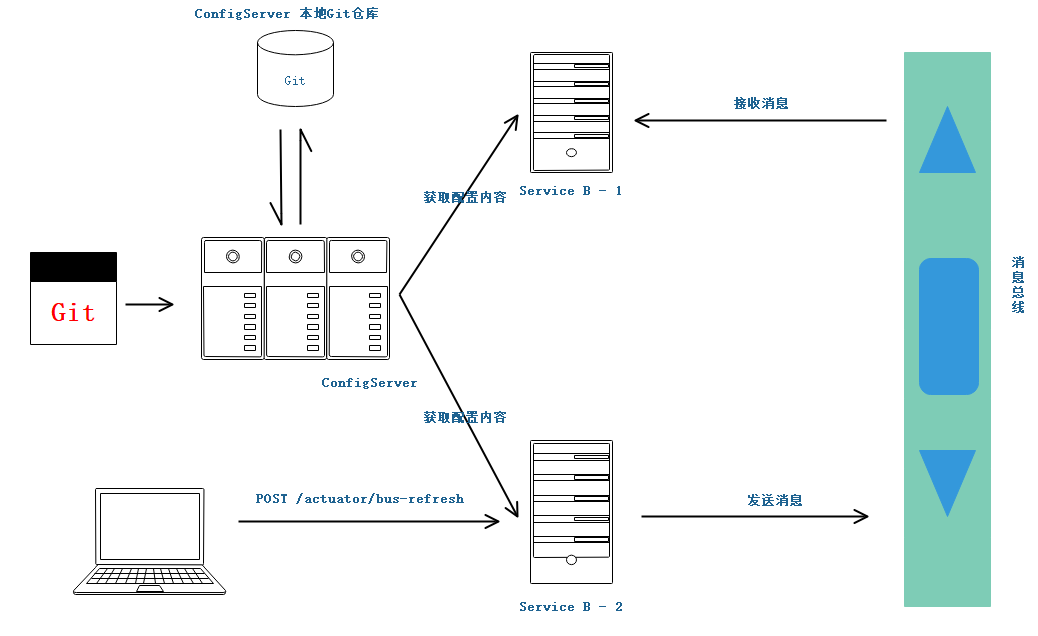
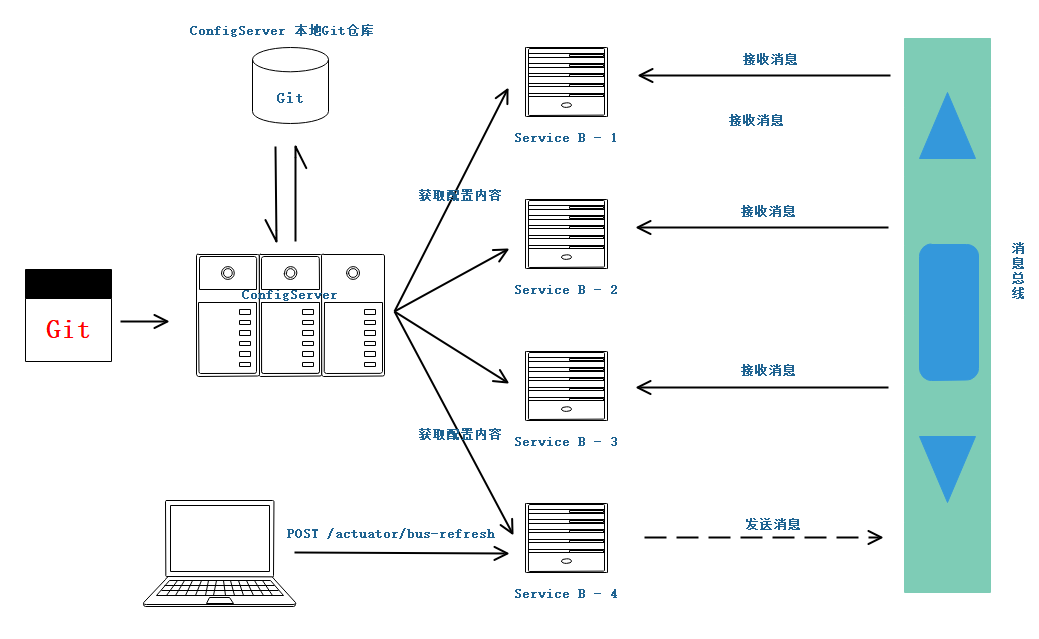
修改:RabbitMQ 消息总线 Server 和 Client 请求示意图;

diff --git a/springcloud-rabbitmq/README.md b/springcloud-rabbitmq/README.md
@@ -371,12 +371,14 @@ spring.rabbitmq.password=123456
 
 现在，修改配置中心 from 属性值为 `git-dev-2.0`，并请求 `http://localhost:7001/actuator/refresh` 或 `http://localhost:7002/actuator/refresh` 或 `http://localhost:7003/actuator/refresh`。在此请求两个客户端信息就会发现两个客户端返回的数据是 `git-dev-2.0`。成功刷新配置信息！
 
+这里有一点需要注意，如果发现配置属性值并没有被更新但是在请求刷新节点时在控制台输出了刷新信息，需要看下是否在需要刷新配置属性的类上增加了 `@RefreshScope` 注解。只要是需要动态更新的配置都需要在类上增加该注解！
+
 > **注意：** 请求 Server 端点的 `/actuator/refresh` 是刷新所有客户端的配置信息，而请求 Client 端点的 `/actuator/refresh` 则是刷新这个实例服务的所有实例配置信息。而，如果只想刷新某个服务的具体实例，比如：Config：7002 实例，则只需要请求 `http://localhost:7001/actuator/bus-refresh/config:7002` 即可！
 
 只看代码可有有点不好理解，现在来看下图示：
 
-Config Client 请求消息总线：
+Config Client 请求消息总线示意图：
 ![rabbitmq-client-pic.png](images/rabbitmq-client-pic.png)
 
-Config Server 请求消息总线：
+Config Server 请求消息总线示意图：
 ![rabbitmq-server-pic.png](images/rabbitmq-server-pic.png)
